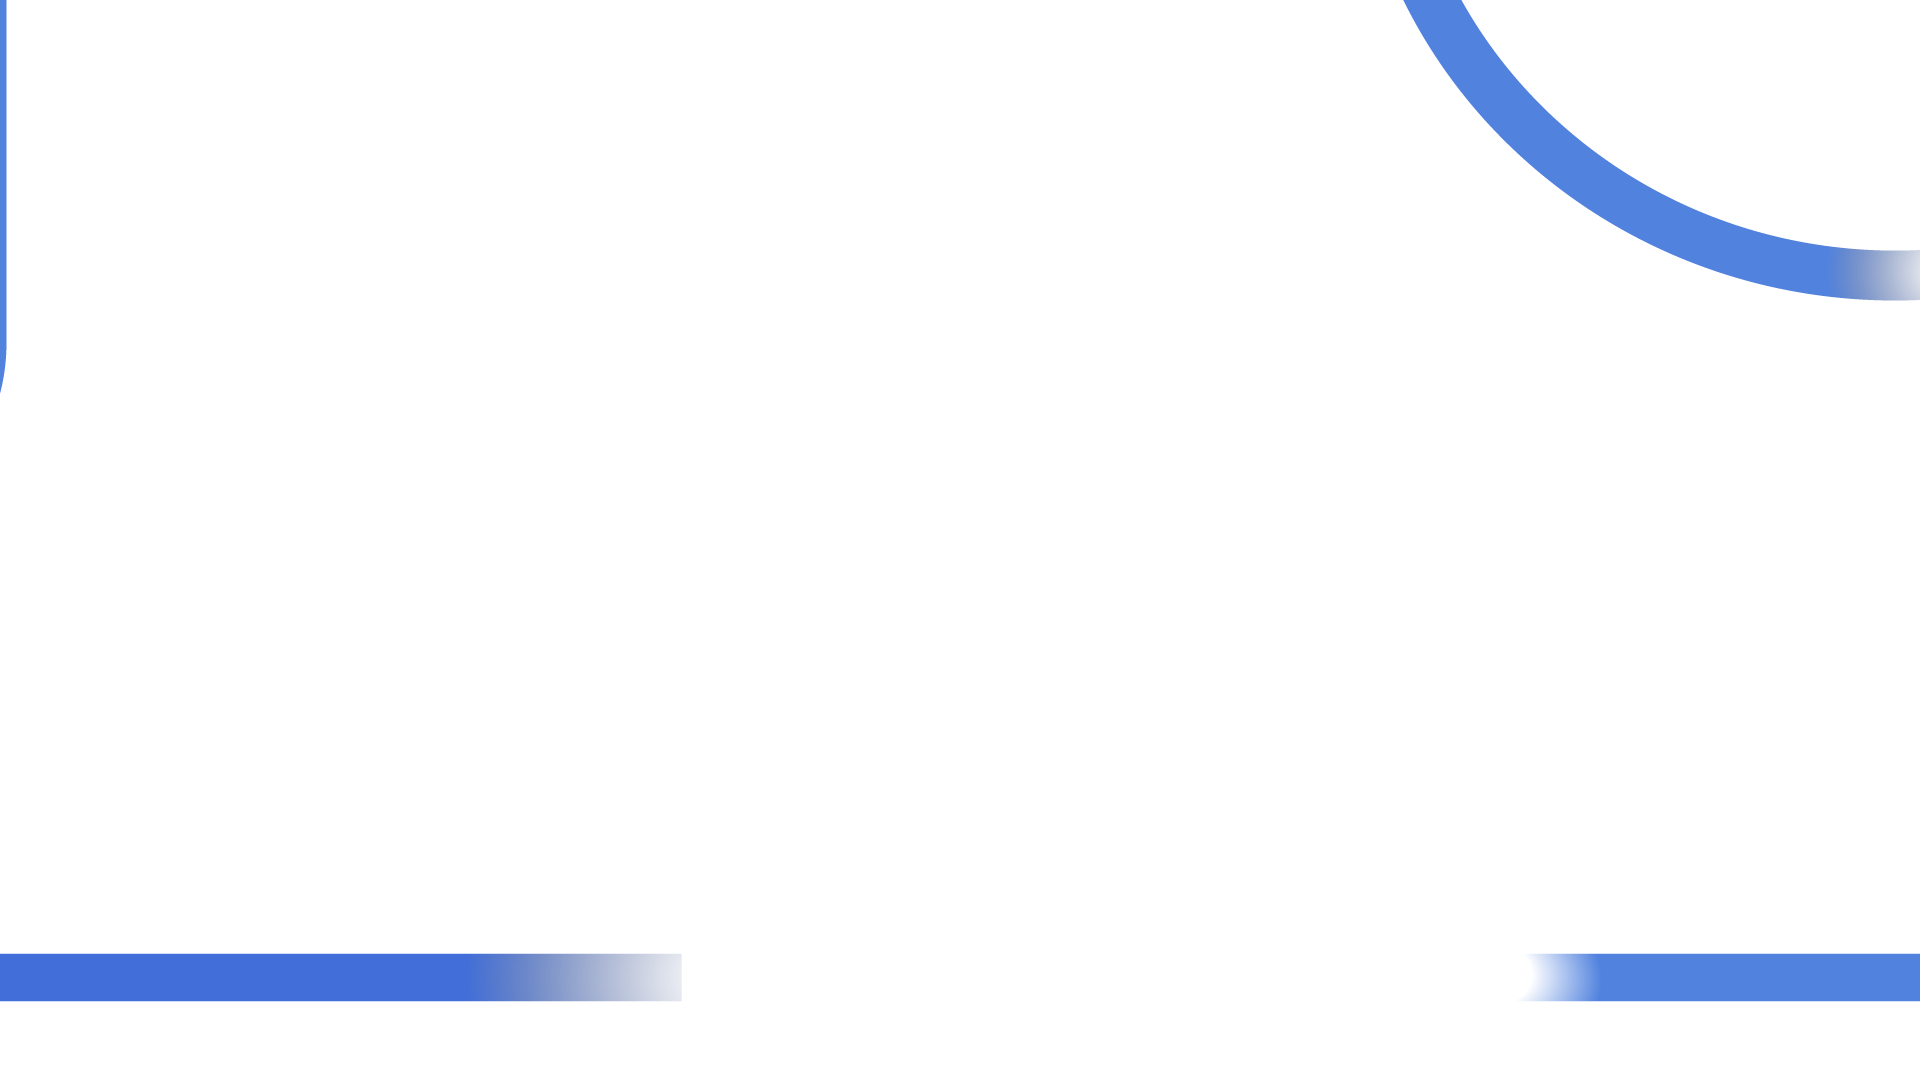
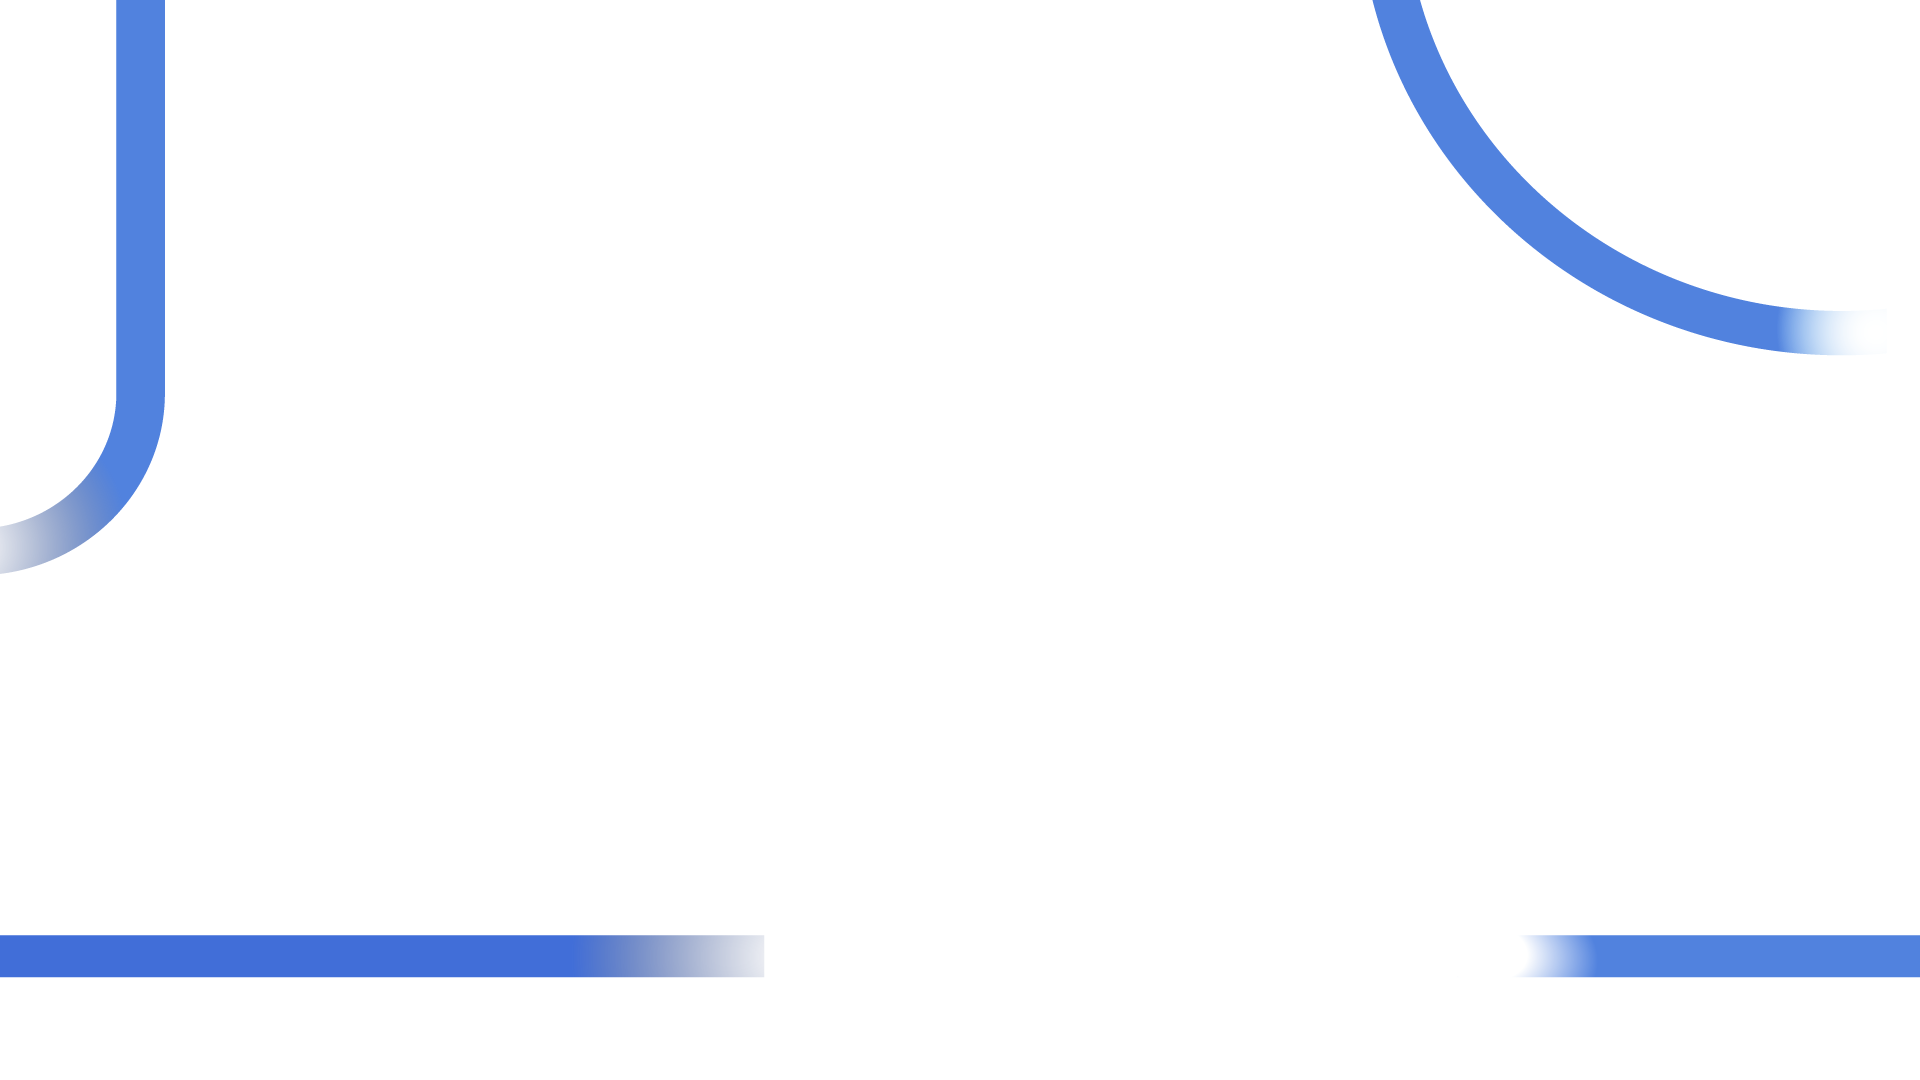
inserir parallax vertical no topo da home

diff --git a/index.html b/index.html
@@ -78,11 +78,12 @@
 
 	<body>
 		<div class="section-hero">
-			<div id="layer-1" class="layer-parallax parallax-track" data-speed="60"></div>
-			<div id="layer-2" class="layer-parallax parallax-track" data-speed="50"></div>
-			<div id="layer-3" class="layer-parallax parallax-track" data-speed="30"></div>
-			<div id="layer-4" class="layer-parallax parallax-track" data-speed="20"></div>
-			<div id="layer-5" class="layer-parallax parallax-track" data-speed="0">
+			<div id="layer-1" class="layer-parallax parallax parallax-track" data-speed="30" data-track="60"></div>
+			<div id="layer-2" class="layer-parallax parallax parallax-track" data-speed="35" data-track="50"></div>
+			<div id="layer-3" class="layer-parallax parallax parallax-track" data-speed="40" data-track="30"></div>
+			<div id="layer-4" class="layer-parallax parallax parallax-track" data-speed="45" data-track="20"></div>
+			<div id="layer-5" class="layer-parallax" data-speed="0"></div>
+			<div id="layer-6" class="layer-parallax parallax parallax-track" data-speed="50" data-track="0">
 				<div class="hero-title">
 					<div class="container-fluid">
 						<div class="row justify-content-center justify-content-lg-start align-items-center">
@@ -156,26 +157,26 @@
 							</div>
 						</div>
 					</div>
-					<div class="row justify-content-center align-items-center mb-5">
-						<div class="col-8 col-md-4 mb-4 mb-md-0">
+					<div class="row justify-content-center align-items-start mb-5">
+						<div class="col-8 col-md-3 mb-4 mb-md-0">
 							<div class="list-item">
 								<img class="icon" src="media/home/icone1.png" aria-hidden="true" alt="" />
 								<h6>Autoinstrucional</h6>
-								<p>Faça o curso sem depender dos outros.</p>
+								<p>Faça o curso sem depender dos outros.</p>
 							</div>
 						</div>
-						<div class="col-8 col-md-4 mb-4 mb-md-0">
+						<div class="col-8 col-md-3 mb-4 mb-md-0">
 							<div class="list-item">
 								<img class="icon" src="media/home/icone2.png" aria-hidden="true" alt="" />
 								<h6>40 horas de Carga Horária</h6>
 								<p>Curso rápido, estude 2 horas por dia.</p>
 							</div>
 						</div>
-						<div class="col-8 col-md-4">
+						<div class="col-8 col-md-3">
 							<div class="list-item">
 								<img class="icon" src="media/home/icone3.png" aria-hidden="true" alt="" />
 								<h6>3 Módulos</h6>
-								<p>Programe-se para cada módulo.</p>
+								<p>Programe-se para cada módulo.</p>
 							</div>
 						</div>
 					</div>

diff --git a/assets/css/home.css b/assets/css/home.css
@@ -27,7 +27,7 @@ html {
 	background-size: cover;
 	background-repeat: no-repeat;
 	width: 100%;
-	position: absolute;
+	position: fixed;
 
 	display: block;
 	height: 100%;
@@ -45,7 +45,7 @@ html {
 	align-items: center;
 	justify-content: start;
 	display: flex;
-	translate: 0 -10vh;
+	translate: 0 -5vh;
 }
 .hero-title .logo {
 	display: block;
@@ -93,19 +93,22 @@ html {
 	}
 	#layer-1 {
 		background-image: url(../../media/home/layer-1.png);
-		scale: 1.1;
+		scale: 1.05;
 	}
 	#layer-2 {
 		background-image: url(../../media/home/layer-2.png);
-		scale: 1.1;
+		scale: 1.05;
 	}
 	#layer-3 {
 		background-image: url(../../media/home/layer-3.png);
-		scale: 1.1;
+		scale: 1.05;
 	}
 	#layer-4 {
 		background-image: url(../../media/home/layer-4.png);
-		scale: 1.1;
+		scale: 1.05;
+	}
+	#layer-5 {
+		background-image: url(../../media/home/Asset\ 6.png);
 	}
 }
 
@@ -158,7 +161,7 @@ section {
 	padding: var(--fio-sys-size-vertical-xl) 0 var(--fio-sys-size-vertical-xl);
 }
 #course-program .list-item .icon {
-	height: 150px;
+	height: 220px;
 	margin-bottom: var(--fio-sys-size-vertical-sm);
 	text-align: center;
 }

diff --git a/assets/js/home.js b/assets/js/home.js
@@ -38,7 +38,7 @@ document.addEventListener('DOMContentLoaded', function () {
 		var mouseY = e.pageY - viewportCenterY;
 
 		initialPositions.forEach(({ element, rectPosY, rectPosX }) => {
-			var elementSpeed = element.getAttribute('data-speed');
+			var elementSpeed = element.getAttribute('data-track');
 			elementSpeed = elementSpeed ? parseFloat(elementSpeed) : 1; // Default to 1 if no data-speed attribute
 
 			// Adjust element position based on mouse movement relative to viewport center
